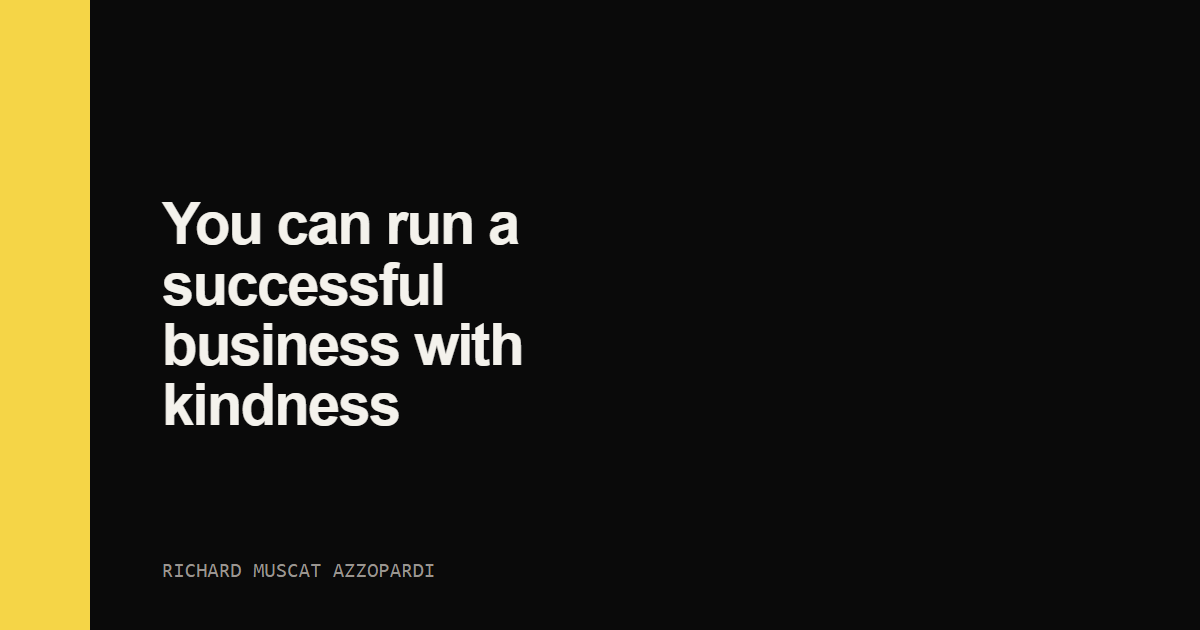
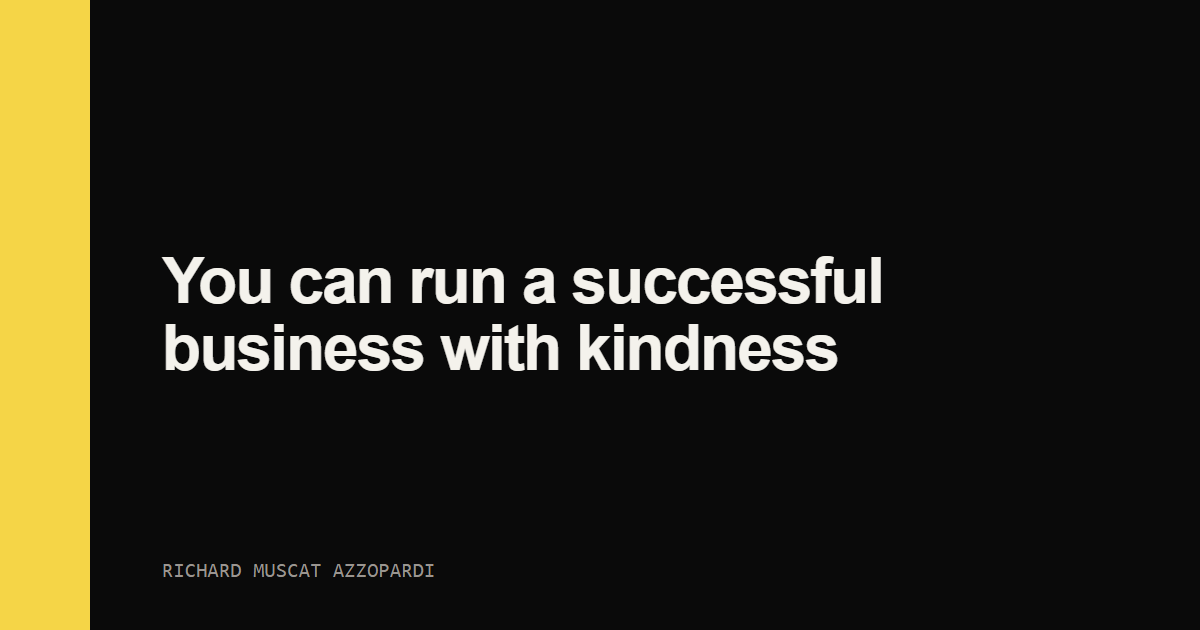
Publish Richard's fixed essays; fix social share cards
- commodities live (his edits + draft:false), kindness edits synced,
  why-this-site-doesnt-sell deleted per Richard; four-day-week stays draft
- OG: add og:site_name, image width/height/alt (blank-first-share fix);
  widen card title measure 15ch->26ch @64px; regenerate all cards

Changed region(s): [[0.1233, 0.5127, 0.7092, 0.6937], [0.1233, 0.3016, 0.74, 0.4825]]

diff --git a/scripts/generate-og.py b/scripts/generate-og.py
@@ -110,11 +110,11 @@ def build_html(title: str | None) -> str:
   .title {{
     font-family: 'Inter Tight', sans-serif;
     font-weight: 600;
-    font-size: 58px;
+    font-size: 64px;
     line-height: 1.04;
     letter-spacing: -0.03em;
     color: {FG};
-    max-width: 15ch;
+    max-width: 26ch;
   }}
   .name-huge {{
     font-family: 'Inter Tight', sans-serif;

diff --git a/content/essays/commodities.md b/content/essays/commodities.md
@@ -1,17 +1,17 @@
 ---
-title: "How good businesses become commodities (and how they stop)"
+title: How good businesses become commodities (and how they stop)
 description: "Commoditisation from the buyer's chair: how firms doing excellent work end up chosen on price, and why the way out costs more than a rebrand."
 date: 2026-05-20
-draft: true
+draft: false
 ---
 
 I spend a lot of my time on the buying side of the table. Chairing a Vistage group means sitting in rooms where CEOs compare accountants, lawyers, insurers, software vendors, and consultants (people like me get shortlisted and compared too, which keeps things honest). From that chair, I can tell you exactly how good businesses become commodities: they let the buyer run out of ways to tell them apart. That's the whole mechanism. The work can stay excellent the entire time.
 
-Last year I spent the better part of a week reading the websites of professional services firms in one small market. Around twenty of them, every one on a list, because a piece of research needed me to understand how they present themselves. By the fourth site I had started copying phrases into a document. "Professional." "Experienced." "Tailored solutions." "A trusted advisor to our clients." By the twentieth, the document read like one firm talking to itself in a mirror. Some of these firms are excellent. A few have technical depth their competitors could never match, and cultures their people would defend with real feeling. None of that survived the trip to the homepage. If I had swapped the logos around, nobody would have caught it, including, I suspect, the partners themselves.
+Last year I spent the better part of a week reading the websites of professional services firms in one small market. Around twenty of them, every one on a list, because a piece of research needed me to understand how they present themselves. By the fourth site I had started copying phrases into a document. "Professional." "Experienced." "Tailored solutions." "A trusted advisor to our clients." By the twentieth, the document read like one firm talking to itself in a mirror. I happen to know that some of these firms are genuinely excellent. A few have technical depth their competitors could never match, and cultures their people would defend with real feeling. None of that survived the trip to the homepage. If I had swapped the logos around, nobody would have caught it, including, I suspect, the partners themselves.
 
 This matters because a commodity is a verdict, and buyers are the ones who deliver it. When three firms make identical claims with identical confidence, the only signal left with any information in it is price. So the buyer uses price. Inside the losing firms this gets read as a cheapening market, or as clients growing less loyal. From the buying side it looks much simpler: you were handed nothing else to weigh, so you weighed the one thing that differed.
 
-AI is about to make the sameness far more expensive, because it is commoditising the execution layer of professional services. The filing, the report, the standard contract, the first draft of almost anything: a machine already produces a passable version, and within a few years it will produce a good one for close to nothing. I've watched this from both sides. As a buyer, I already ask why a deliverable that took forty hours last year still costs the same now that it takes four. Every firm whose core offering is execution will face that question, from every client, at every renewal. The only open question is how fast it arrives.
+AI is about to make the sameness far more expensive, because it is commoditising the execution layer of professional services. The filing, the report, the standard contract, the first draft of almost anything: a machine already produces a passable version, and within a few years it will produce a good one for close to nothing. I've watched this from both sides. Every firm whose core offering is execution will face  questions about time and value, from every client, at every renewal. The only open question is how fast it arrives.
 
 Meanwhile the thing buyers actually lack has become obvious. I am not short of information; no buyer is. I get reports I skim and dashboards I ignore. What I will pay a premium for, happily and without negotiating, is the person who has read everything I couldn't face, then sits across from me and says:
 
@@ -19,10 +19,16 @@ Meanwhile the thing buyers actually lack has become obvious. I am not short of i
 
 That sentence is worth more than the hundred pages underneath it. Firms that sell clarity and judgment will keep their margins. Firms that sell process will compete on price until they can't.
 
-The standard response, once a firm notices its margins thinning, is to call an agency and ask for a rebrand. I run an agency, so believe me when I say a rebrand is a pleasant thing to sell. On its own it fixes nothing, because the sameness was never a writing problem. Those twenty websites sound alike because the firms behind them made the same decisions: serve every client who calls, keep every service line, hold every accreditation, and never say no to revenue. Identical strategies produce identical copy. Any honest copywriter handed the same inputs will keep arriving at "professional, experienced, tailored solutions," because that is what a firm shaped like every other firm can truthfully say about itself.
+The standard response, once a firm notices its margins thinning, is to call an agency and ask for a rebrand. I run an agency, so believe me when I say a rebrand is a pleasant thing to sell, and I refuse the work countless times. Because on its own it fixes nothing, because the sameness was never a writing problem. 
 
-The way out is positioning, and positioning worth the name is a business-model decision. It shows up in the client roster and the price list long before it shows up on a website: clients you name and deliberately stop chasing, services you hand to the machines without a fight because execution was never where your value sat. The money and attention that frees up goes into the relationships where judgment gets sold. Usually it also means a partner giving up revenue they personally brought in, which is where most attempts quietly die. A positioning decision that costs you nothing is a slogan.
+Those twenty websites sound alike because the firms behind them made the same decisions: serve every client who calls, keep every service line, hold every accreditation, and never say no to revenue. Identical strategies produce identical copy. Any honest copywriter handed the same inputs will keep arriving at "professional, experienced, tailored solutions," because that is what a firm shaped like every other firm can truthfully say about itself.
 
-The odd comfort in all of this is that the more machines take over the work, the more the decision comes down to people. When the filing costs nothing, what I'm buying is the person on the other end of the phone: whether they know my business well enough to tell me something uncomfortable, and whether they'll pick up when something breaks on a Friday afternoon. The few firms I've studied that escaped commoditisation all did some version of the same thing. They picked one kind of buyer and worked out what kept that buyer up at night, then reorganised the whole firm around being the obvious answer, accepting everything the choice cost them.
+The way out is positioning, and positioning worth the name is a business-model decision. It shows up in the client roster and the price list long before it shows up on a website: clients you name and deliberately stop chasing, services you hand to the machines without a fight because execution was never where your value sat. 
+
+The money and attention that frees up goes into the relationships where judgment gets sold. Usually it also means a partner giving up revenue they personally brought in, which is where most attempts quietly die. **A positioning decision that costs you nothing is a slogan.**
+
+The odd comfort in all of this is that the more machines take over the work, the more the decision comes down to people. When the filing costs nothing, what I'm buying is the person on the other end of the phone: whether they know my business well enough to tell me something uncomfortable, and whether they'll pick up when something breaks on a Friday afternoon. 
+
+The few firms I've studied that escaped commoditisation all did some version of the same thing. They picked one kind of buyer and worked out what kept that buyer up at night, then reorganised the whole firm around being the obvious answer, accepting everything the choice cost them.
 
 If you run a firm and want to know where you stand, don't ask your team; they're too close to the mirror. Open your homepage next to your two nearest competitors' and swap the logos. If everything still reads as true, your buyers have already run the same experiment, and you have your explanation for why every conversation ends up at price.

diff --git a/content/essays/four-day-week.md b/content/essays/four-day-week.md
@@ -27,12 +27,12 @@ Strategy is mostly the discipline of deciding what you won't do, and the tired v
 
 Cut one working day from five and you lose 20% of your hours. There is no way to type fast enough to get them back, which means the only honest response is to delete a fifth of what you do. That deletion is the strategy. When we moved to four days, the internal casualties came first: status meetings became short written updates, and the weekly reports nobody read stopped being written. A surprising amount of work, it turned out, existed only so that someone would appear busy. Fake work needs slack to survive, and we had removed the slack.
 
-The discipline reaches client work too. A team with 32 hours instead of 40 has honest scope conversations and stops gold-plating deliverables nobody asked for. Our clients don't buy hours from us anyway. They buy the judgment that comes out of those hours, and judgment concentrates when time is scarce.
+The discipline reaches client work too. A team with 32 hours instead of 40 has better scope conversations and stops gold-plating deliverables nobody asked for. Our clients don't buy hours from us anyway. They buy the judgment that comes out of those hours, and judgment concentrates when time is scarce.
 
 ## What it costs
 
 I won't pretend the week is free. Client emergencies don't check your calendar, and a handful of weeks a year the fifth day happens anyway; working with US clients from this side of the Atlantic means some Thursdays run long. It also caps a certain kind of growth. You cannot run a body shop on four days, selling hours in bulk, because you've made your hours deliberately scarce. We accepted that ceiling with our eyes open. Scarce hours pushed us to sell thinking instead of time, and thinking is a better business to be in.
 
-There were quarters when it strained and we talked about suspending it until things calmed down. We never did. Suspend a principle under pressure once and your team learns what it always was: decoration. People sometimes file our four-day week under kindness, and I'll take that, since kindness at Switch is an operating principle and this is one of the ways it shows up in a calendar. But it keeps its place in the business on commercial merit.
+There were quarters when it strained and we actually suspended it until things calmed down. People sometimes file our four-day week under kindness, and I'll take that, since kindness at Switch is an operating principle and this is one of the ways it shows up in a calendar. But it keeps its place in the business on commercial merit.
 
-When we merged our two agencies into one in 2016, Switch was a 360° shop competing for every brief on the island, mostly on price. Today it's a fully remote B2B consultancy with clients on two continents, in the middle of its best year since founding. The whole rebuild, the repositioning, the move into new markets, every difficult call along the way, happened on four days a week. The fifth day was never where the good work was happening anyway.
+When we merged our two agencies into one in 2016, Switch was a 360° shop competing for every brief on the island, mostly on price. Today it's a fully remote B2B consultancy with clients on two continents. The whole rebuild, the repositioning, the move into new markets, every difficult call along the way, happened on the way to four days a week. The fifth day was never where the good work was happening anyway.

diff --git a/content/essays/kindness.md b/content/essays/kindness.md
@@ -5,7 +5,7 @@ date: 2026-07-05
 draft: false
 ---
 
-A few years ago a client asked Ed and me why our proposal was three pages instead of the twenty he was used to getting from other agencies. We told him the truth: we'd cut everything whose only job was to make us look busy. He signed that week. He's still a client four years later, and he's sent us two more since.
+A few years ago a client asked Ed and me why our proposal was three pages instead of the twenty he was used to getting from other agencies. We told him the truth: we'd cut everything whose only job was to make us look busy. He signed that week. He's still a client four years later, and he's sent us two more clients since.
 
 I bring this up because kindness has a branding problem in business. The word sounds like a poster in an office kitchen, somewhere above the recycling bins. What it looks like in practice is harder. Being kind to a client means telling them the campaign they love isn't going to work, before they spend the money. Being kind to a team means saying no to the project that would make the agency more money but would burn three people out to deliver it. Done properly, kindness is a discipline for making hard calls.
 
